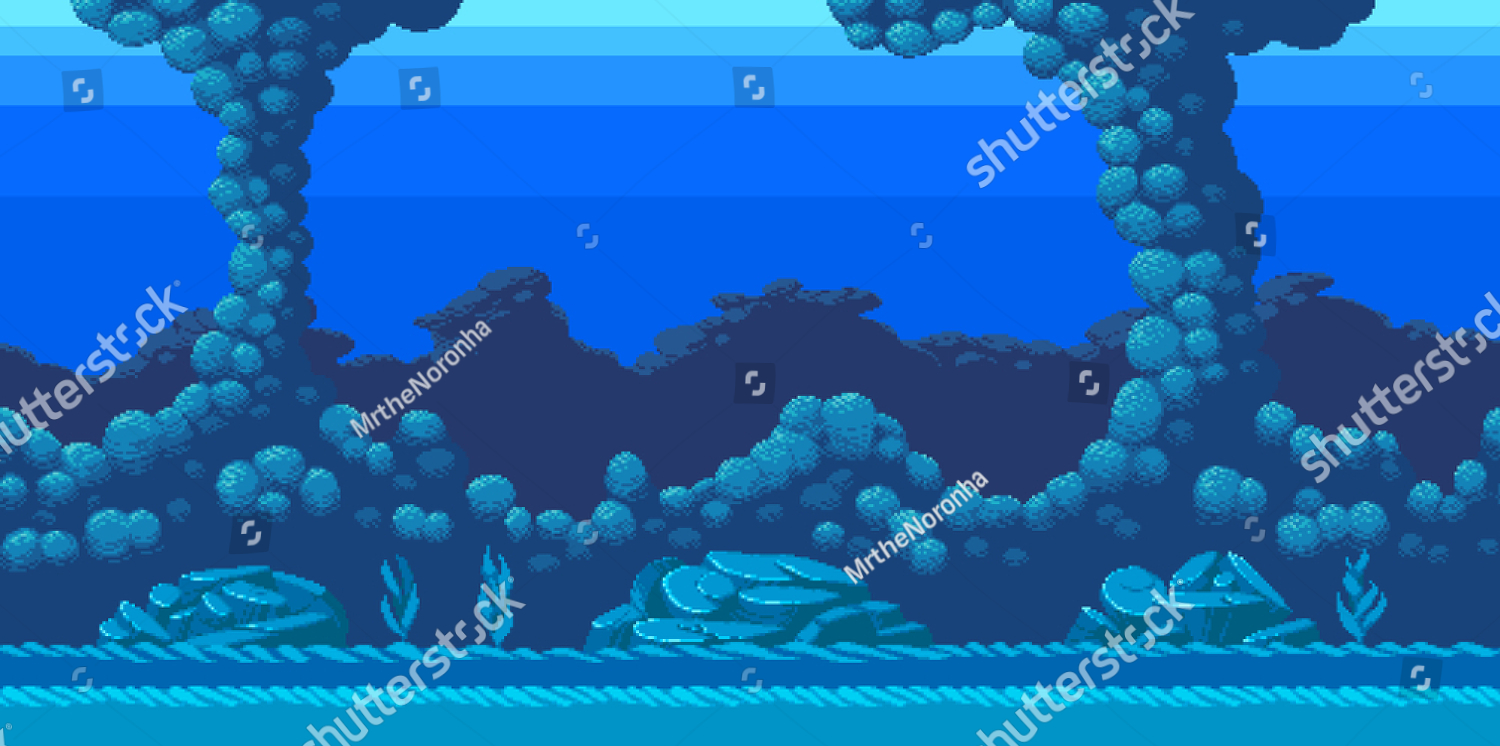
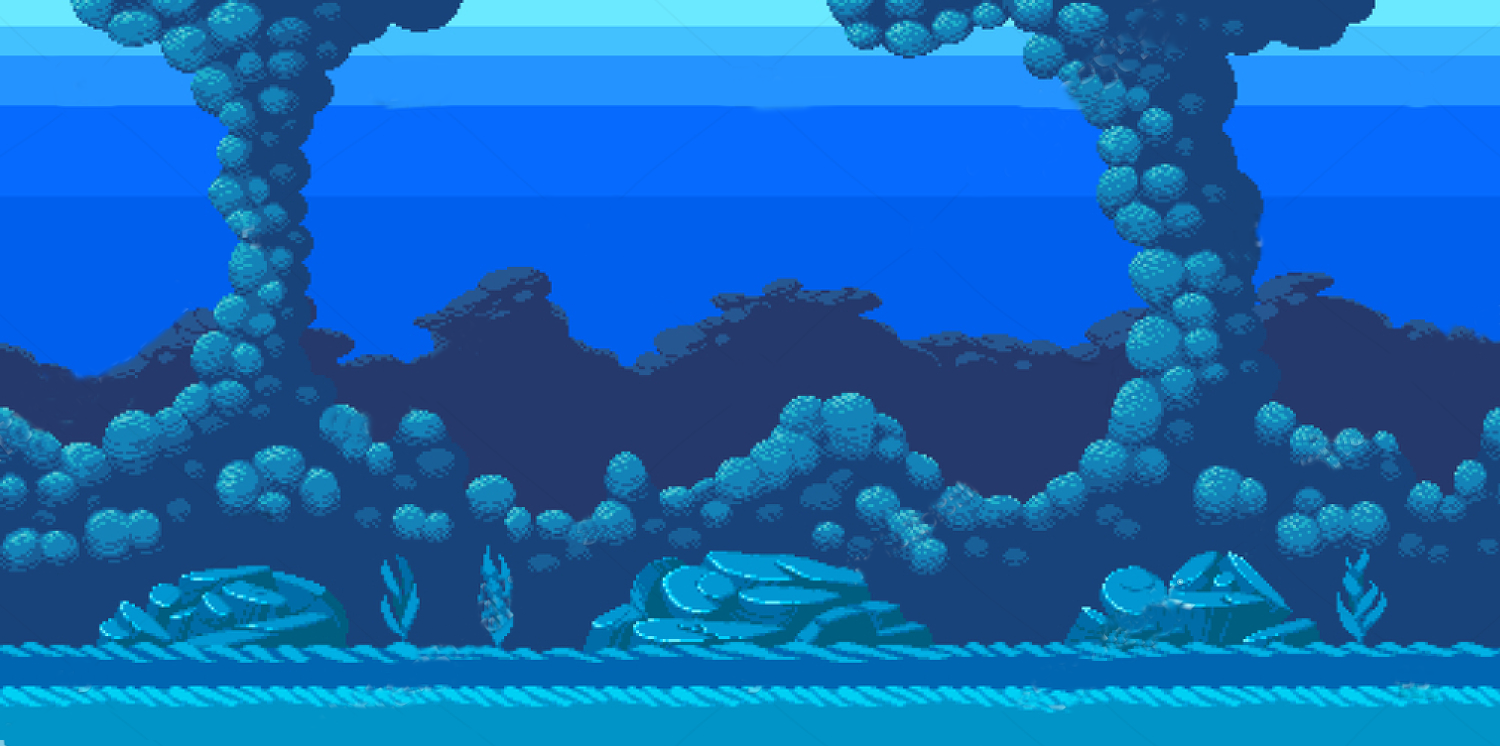
deleted watermarks

diff --git a/savesfile.cpp b/savesfile.cpp
@@ -20,15 +20,14 @@ int savesFile::readFileLvl()
     QTextStream in(&file);
 
       QString line = in.readLine(); // метод readLine() считывает одну строку из потока
-      if (QString::compare(line, "Lvl: 1") == 0) {
+      if (QString::compare(line, "Lvl: 1") == 0)
           return 1;
-      }
 
-      if (QString::compare(line, "Lvl: 2") == 0) {
+      if (QString::compare(line, "Lvl: 2") == 0)
           return 2;
-      }
 
       file.close();
+      return 0;
 }
 
 void savesFile::writeFileLvl(QString lvl)
